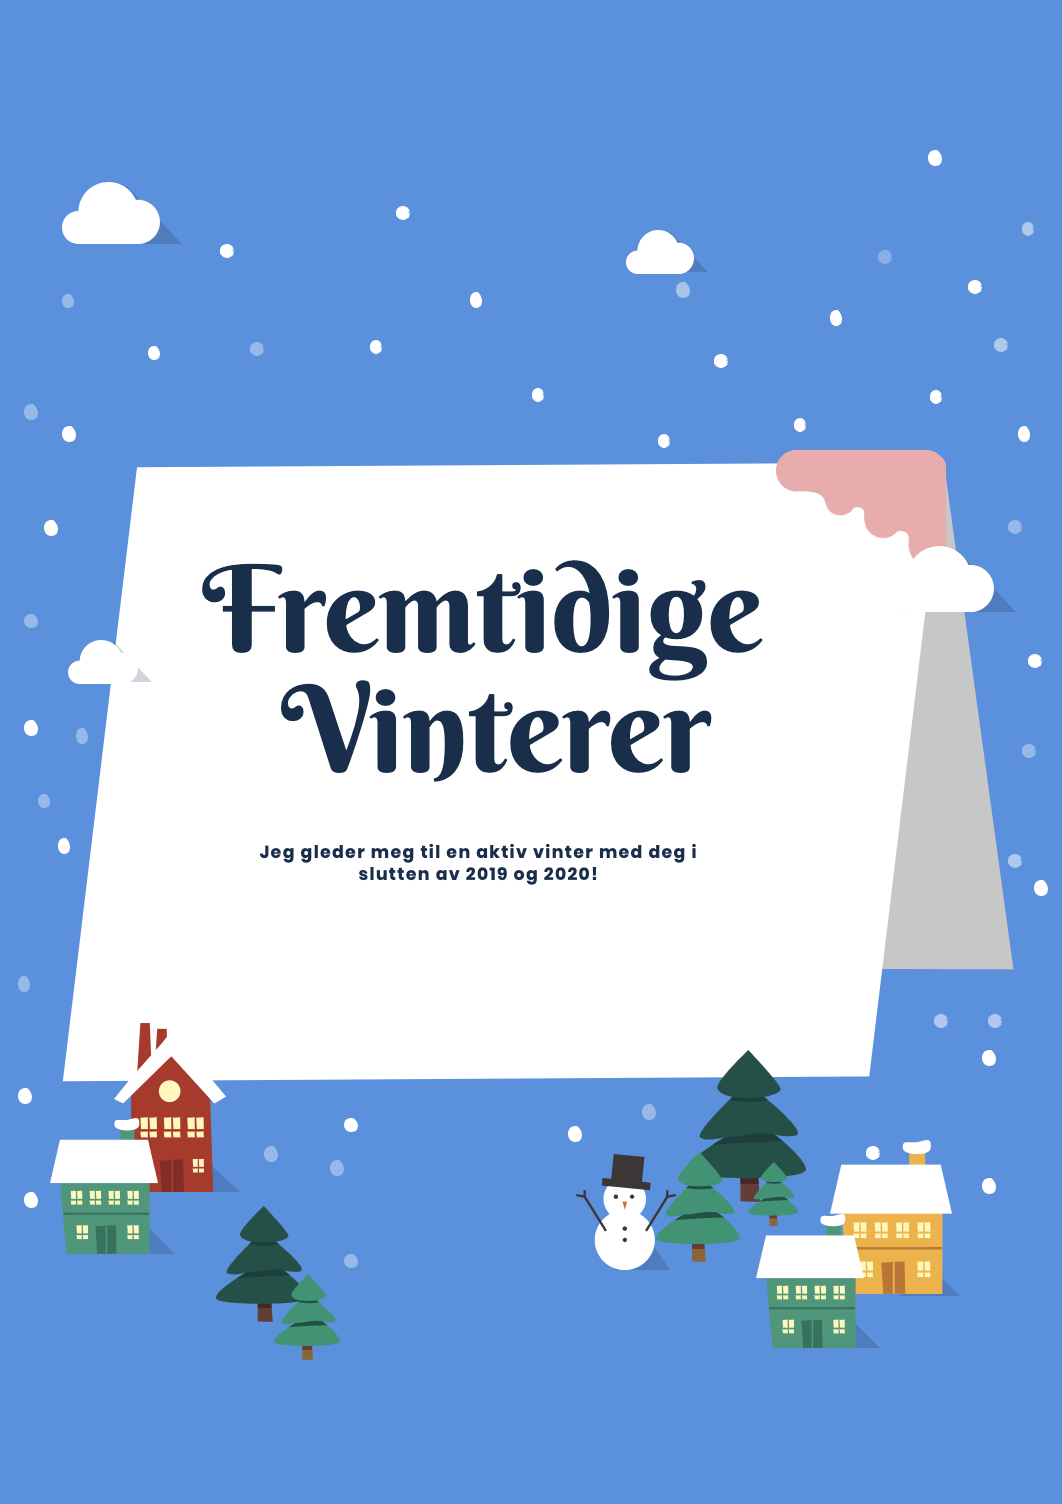
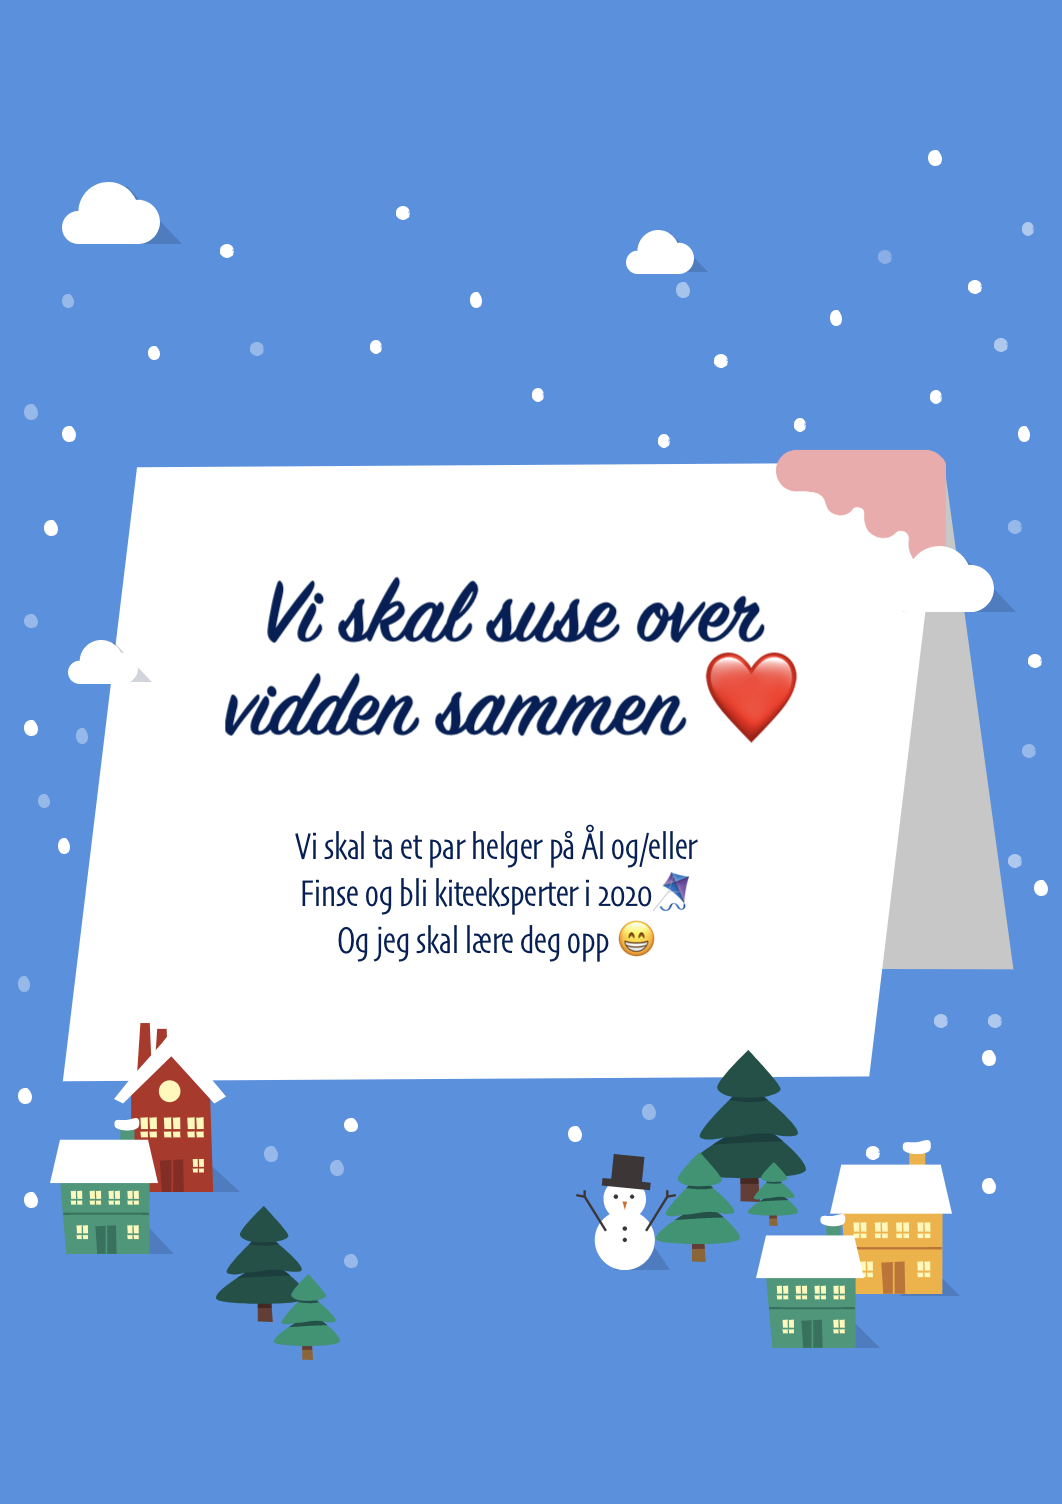
added nina stuff

Changed region(s): [[0.1864, 0.375, 0.7458, 0.6562]]

diff --git a/src/ninabriller/doodle.html b/src/ninabriller/doodle.html
@@ -7,21 +7,14 @@
   <body>
     <div class="container">
       <div class="label">
-        <span>Du styrer litt når og vi tar det i ditt tempo 😘!</span>
+        <span>Du velger jo selv!</span>
         <br/>
         <span>Men har kan du friste deg selv litt</span>
         <br/>
-        <br/>
-        <br/>
-        <div id="button">Winter</div>
-        <br/>
+        <div id="button">Guide</div>
         <div>&</div>
         <br/>
-        <div id="button2">Summer</div>
-        <br/>
-        <div>&</div>
-        <br/>
-        <div id="button3">Må ikke glemme forrige gaven din</div>
+        <div id="button2">Best of 2019</div>
       </div>
     </div>
 
@@ -38,15 +31,11 @@
             }
         }
         $('#button').on('click', function() {
-            openWebPage('https://www.youtube.com/watch?v=ysdn2xbvTLo')
+            openWebPage('https://www.sport-conrad.com/blog/en/how-to-find-the-right-ski-goggle-lenses-sizes-fit-guide/')
             return false;
         });
         $('#button2').on('click', function() {
-            openWebPage('https://youtu.be/gPNmHGmvw80?t=17');
-            return false;
-        });
-        $('#button3').on('click', function() {
-            openWebPage('http://ninabriller.vongohren.me/');
+            openWebPage('https://adventuredigest.com/best-ski-goggles/');
             return false;
         });
     });

diff --git a/index.html b/index.html
@@ -32,8 +32,8 @@
     <script type="text/javascript">
      var totalPages = 5;
     //  var person = location.hash.substr(1);
-    // var person = "nina"
-     var person = location.host.split('.')[0];
+    var person = "nina"
+    //  var person = location.host.split('.')[0];
 
     function gift(n) {
       return {

diff --git a/README.md b/README.md
@@ -1,0 +1,11 @@
+# Introduction
+This is a simple card displayer, can be hosted simply on a static hoster.
+This uses firebase.
+
+Just make a folder for ther person you want to give to in src.
+Add img-1.png to img-6.png which is the images used for the card
+Add a doodle.html, then you have one more interactive page.
+This can be used for links, doodles for planning or something.
+
+# Inspiration
+This is nice to create quick templates for screenshotting: https://www.openme.com/
